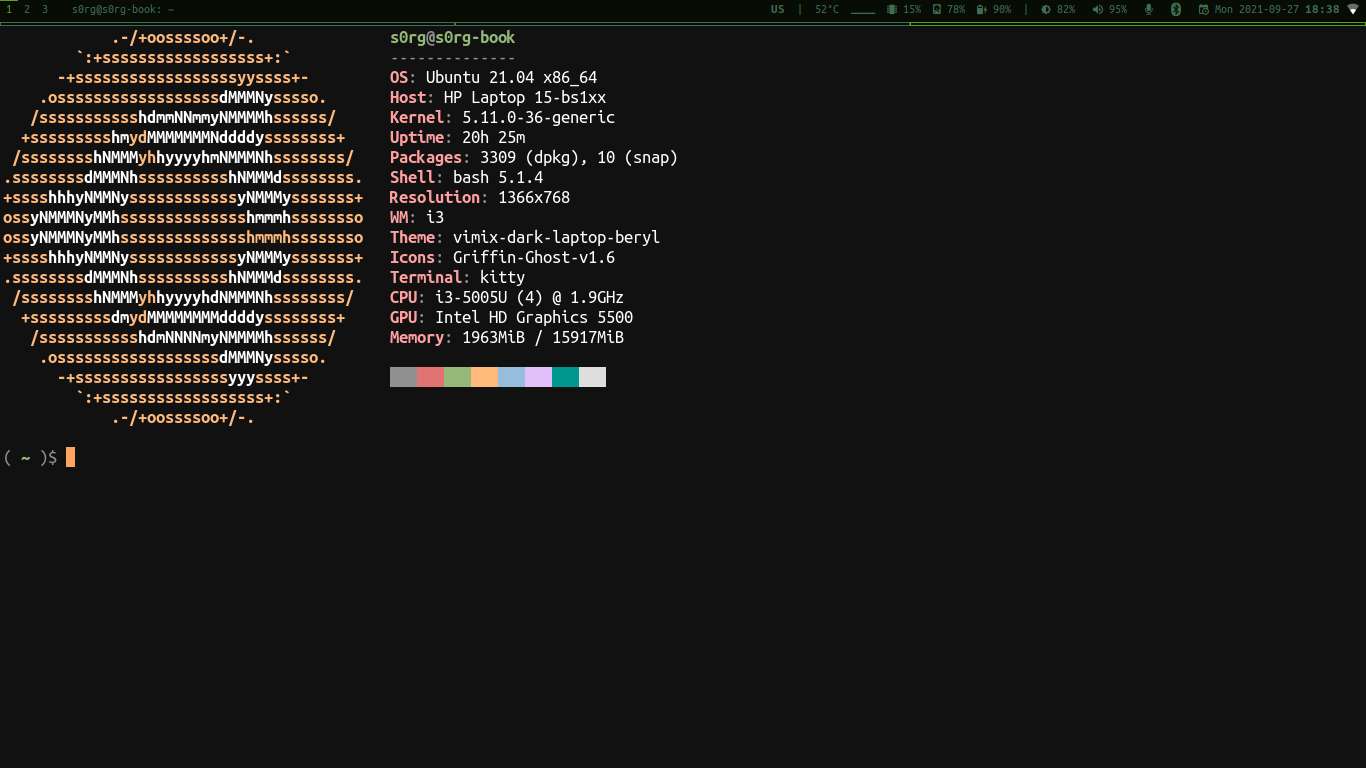
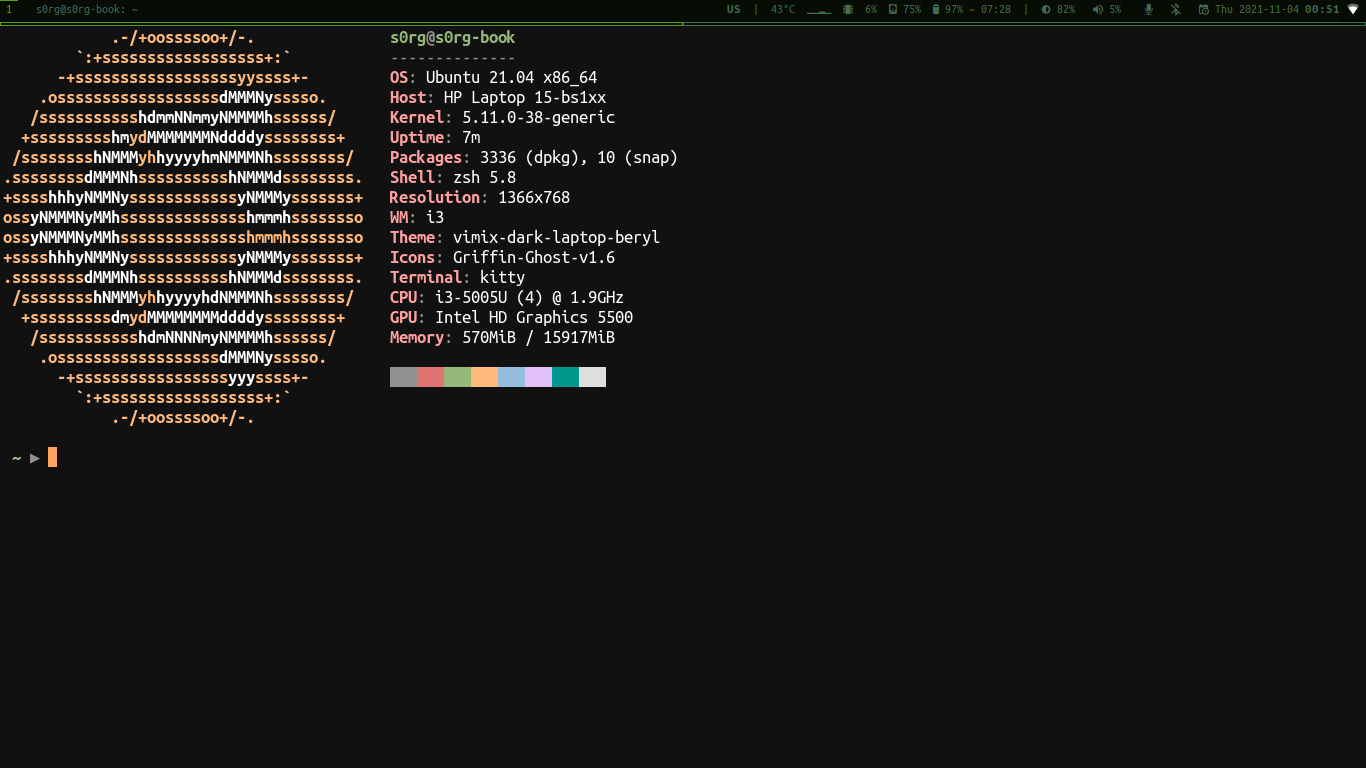
stored at: 2021-11-04 00:55:40+03:00

diff --git a/README.md b/README.md
@@ -7,8 +7,8 @@ This repo is managed via [this](https://www.atlassian.com/git/tutorials/dotfiles
 ## software
 
 - wm: [i3](https://i3wm.org/)
+- shell: [zsh](https://www.zsh.org/)
 - editor: [vim](https://www.vim.org/)
-- shell: [bash](https://www.gnu.org/software/bash/)
 - menus: [rofi](https://github.com/davatorium/rofi)
 - music: [cmus](https://cmus.github.io/)
 - terminal: [kitty](https://sw.kovidgoyal.net/kitty/)
